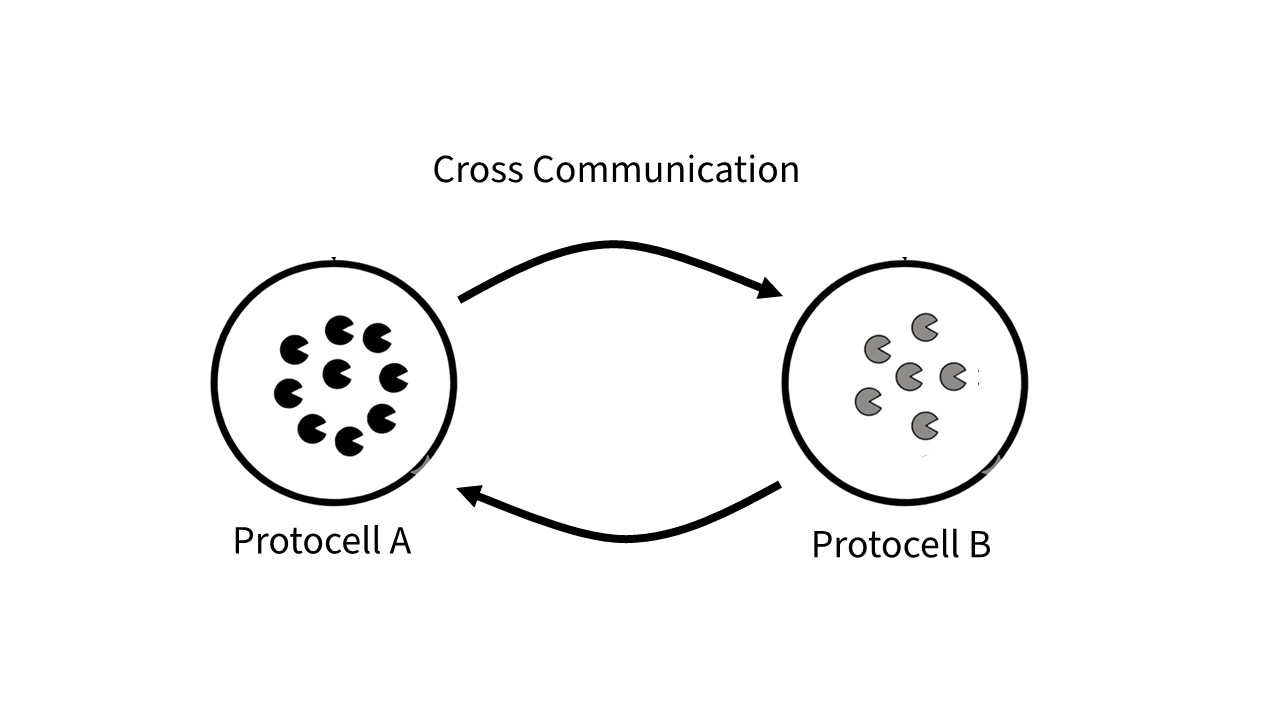
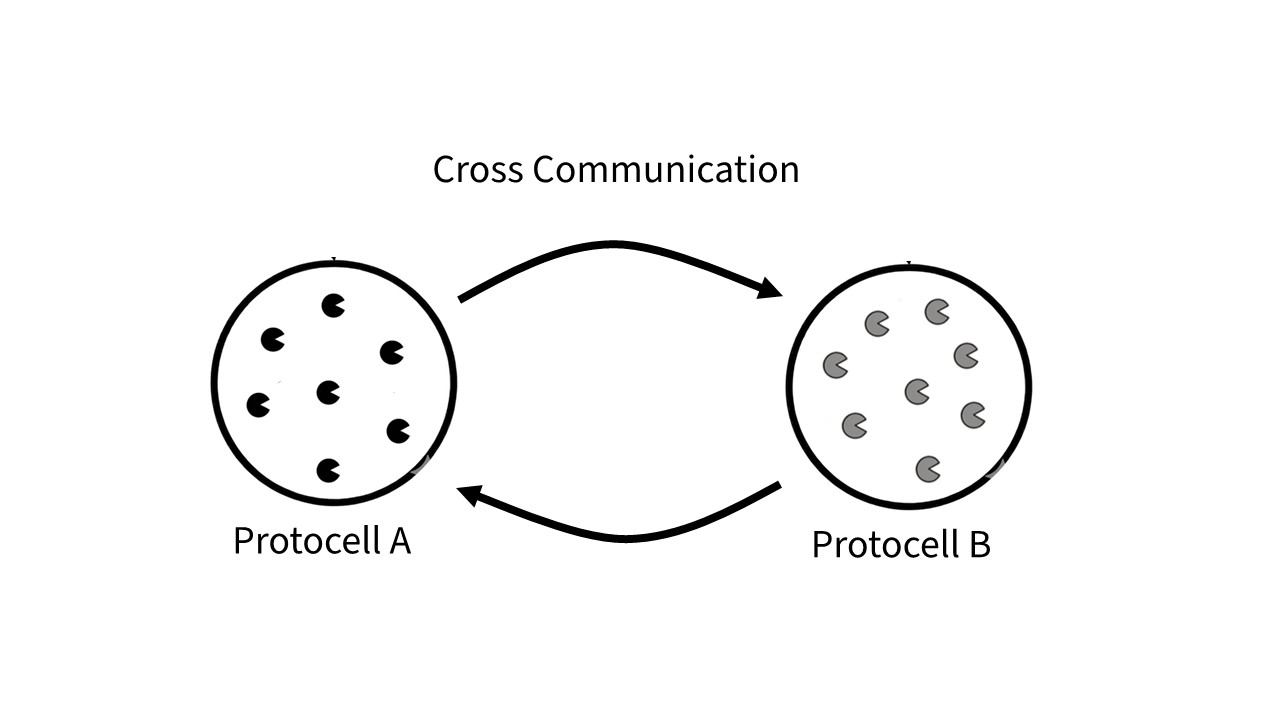
Update research focus text and replace scheme images

Changed region(s): [[0.5938, 0.3361, 0.8125, 0.7333], [0.1875, 0.3972, 0.3438, 0.6722], [0.625, 0.6111, 0.6562, 0.6417]]

diff --git a/lib/site-data.ts b/lib/site-data.ts
@@ -102,29 +102,28 @@ export const teamMembers: TeamMember[] = [
 export const researchSchemes: ResearchScheme[] = [
   {
     id: "scheme-0",
-    title: "Synthesis of New Protocell Architectures",
+    title: "Programmable Protocell Architectures",
     summary:
-      "We focus on synthesizing new protocell systems with programmable structure, composition, and function as a foundation for communication and tissue-like assembly studies.",
+      "We focus on synthesizing new protocell systems with programmable structures, composition and function as a foundation for emulating natural cells in artificial systems. We also focus on the interplay of supramolecular self-assembly with protocells.",
     image: "/research/protocell-architectures.jpg",
   },
   {
     id: "scheme-1",
-    title:
-      "Mimicking Natural Cell to Cell Communication Using Synthetic Protocells",
+    title: "Interprotocellular communication",
     summary:
-      "Design synthetic compartments that exchange molecular signals to emulate biological communication behavior with tunable control over timing and selectivity.",
+      "We design synthetic compartments with modulable membranes that can exchange molecular signals to mimic biological communication behavior with tunable control over timing and selectivity.",
     image: "/research/scheme-1.png",
   },
   {
     id: "scheme-2",
-    title: "Protocells to Prototissues",
+    title: "Protocells to prototissues",
     summary:
-      "Create higher-order assemblies where protocells organize into functional clusters that exhibit coordinated responses and collective behavior.",
+      "We create higher-order assemblies where protocells organize into functional clusters that exhibit coordinated responses and collective behavior.",
     image: "/research/interconnected3.jpg",
   },
   {
     id: "scheme-3",
-    title: "Synthetic and Natural Cells Functioning Together",
+    title: "Synthetic/Natural Cell Synergy",
     summary:
       "Develop bio-hybrid constructs where synthetic protocells interface with living cells to exchange signals and produce coordinated functional outputs.",
     image: "/research/biohybrid-construct.jpg",

diff --git a/app/page.tsx b/app/page.tsx
@@ -60,17 +60,13 @@ export default function HomePage() {
             </h2>
             <ul className="space-y-3 text-sm leading-relaxed text-slate-700">
               <li className="rounded-xl bg-white p-3">
-                Construction of programmable protocells
+                Programmable and biohybrid protocells and prototissues.
               </li>
               <li className="rounded-xl bg-white p-3">
-                Synthetic cell-to-cell communications in protocell populations
+                Interprotocellular communication.
               </li>
               <li className="rounded-xl bg-white p-3">
-                Hierarchical organization from protocells to prototissues
-              </li>
-              <li className="rounded-xl bg-white p-3">
-                Convergence of supramolecular self-assembly and protocell
-                biochemistry
+                Bioinspired supramolecular self-assembly
               </li>
             </ul>
           </div>
